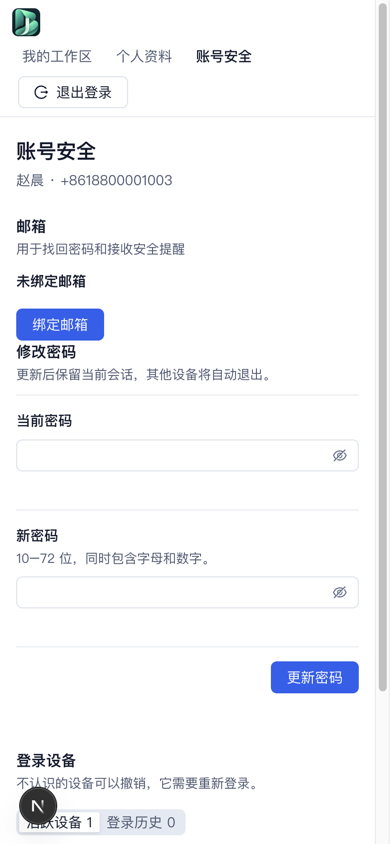
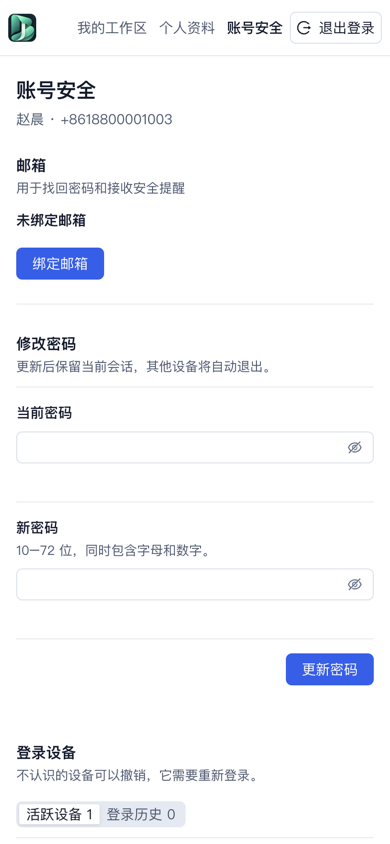
更新个人中心阶段 1 的桌面和手机生产构建截图

diff --git a/docs/audits/2026-11-25/account-profile-email/README.md b/docs/audits/2026-11-25/account-profile-email/README.md
@@ -4,6 +4,8 @@
 
 ## 页面
 
+以下 27 张页面截图使用 Next 生产构建。在 1440、1280 和 390 像素宽度下，邮箱操作区与修改密码之间均有分隔线，已验证邮箱显示绿色状态标签。390 像素宽度下账号顶栏为单行，页面没有横向溢出。
+
 | 场景 | 桌面 1440 | 桌面 1280 | 手机 390 |
 | --- | --- | --- | --- |
 | SMTP 未配置 | [截图](mail-disabled-1440.png) | [截图](mail-disabled-1280.png) | [截图](mail-disabled-390.png) |
